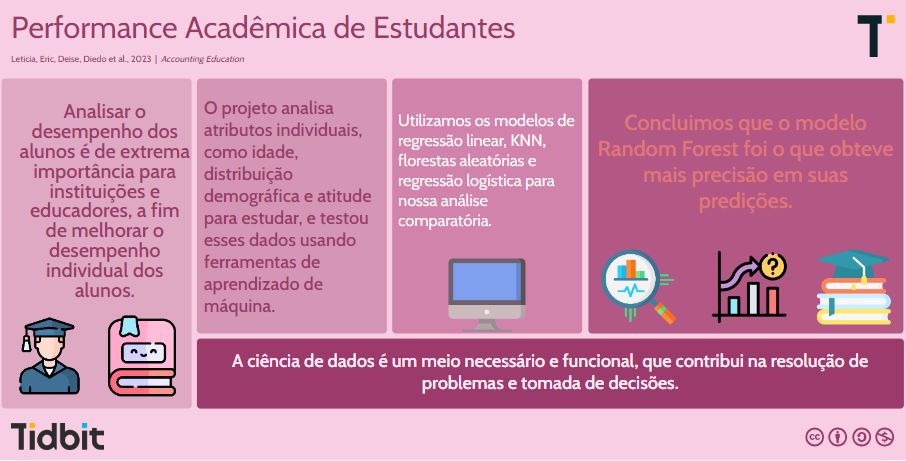
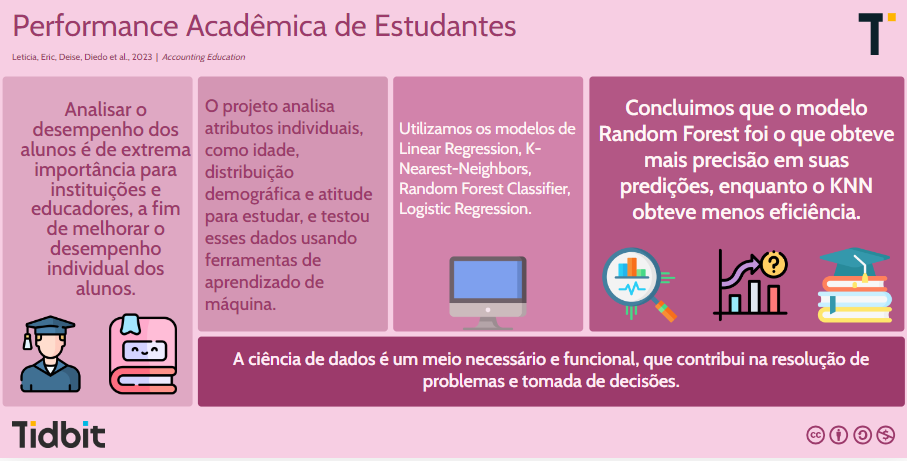
Update READ ME (#2)

diff --git a/README.md b/README.md
@@ -13,7 +13,7 @@ O desempenho do aluno é medido pela variável "Class", que é dividida em três
 * M - Indicando nível médio com pontuação entre 70 e 89.
 * H - Indicando nível alto com pontuação superior a 89 em seus testes.
 
-Dessa forma, tentaremos explorar e observar as relações desses recursos com a variável de classe (nossa resposta). Isso permitirá que encontremos quais fatores impactam consideravelmente no rendimento dos alunos. Essa exploração inicial dos dados pode nos ajudar a maximizar os insights sobre o conjunto de dados, extraindo variáveis importantes e, assim, ser fundamental no desenvolvimento de modelos parsiomáticos. Como "Class" é uma variável categórica, também podemos utilizar técnicas de classificação de aprendizagem supervisionada para prever o nivel de rendimento de novos alunos com base no conjunto de caracteristicas que eles possuem. Utilizaremos os modelos de regressão linear, KNN,florestas aleatórias e regressão logística.
+Dessa forma, tentaremos explorar e observar as relações desses recursos com a variável de classe (nossa resposta). Isso permitirá que encontremos quais fatores impactam consideravelmente no rendimento dos alunos. Essa exploração inicial dos dados pode nos ajudar a maximizar os insights sobre o conjunto de dados, extraindo variáveis importantes e, assim, ser fundamental no desenvolvimento de modelos parsiomáticos. Como "Class" é uma variável categórica, também podemos utilizar técnicas de classificação de aprendizagem supervisionada para prever o nivel de rendimento de novos alunos com base no conjunto de caracteristicas que eles possuem. Utilizaremos os modelos de Linear Regression, K-Nearest-Neighbors, Random Forest Classifier, Logistic Regression.
 
 ## Resumo gráfico
 <img src="/img/assets/resumo-grafico.png">
